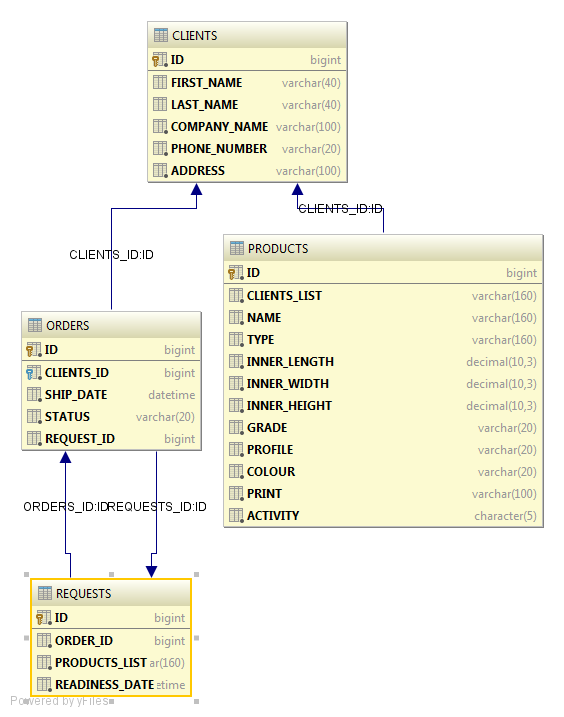
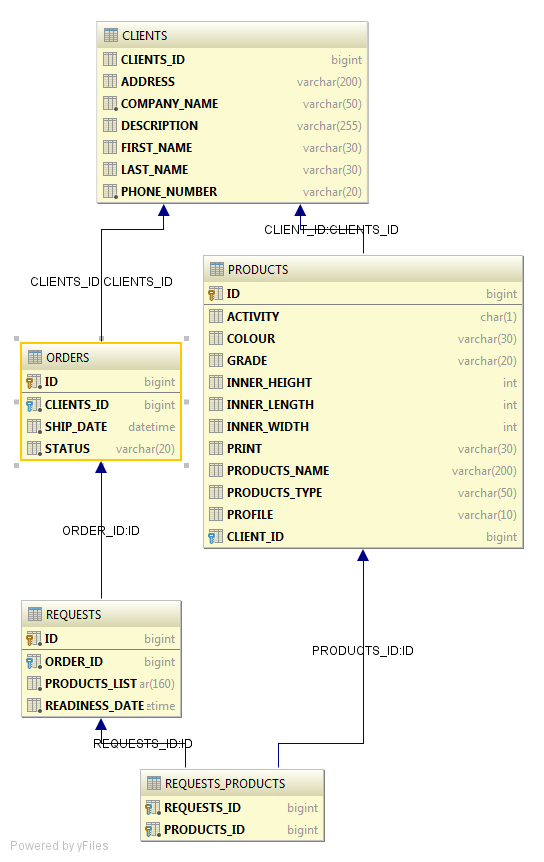
#1104 was done and Product, Client and Order entities were repaired

diff --git a/src/main/java/ua/skillsup/gelius/dao/impl/ProductFilterImpl.java b/src/main/java/ua/skillsup/gelius/dao/impl/ProductFilterImpl.java
@@ -1,0 +1,141 @@
+package ua.skillsup.gelius.dao.impl;
+
+import org.hibernate.SessionFactory;
+import org.springframework.beans.factory.annotation.Autowired;
+import org.springframework.stereotype.Repository;
+import org.springframework.transaction.annotation.Transactional;
+import ua.skillsup.gelius.dao.ProductFilter;
+import ua.skillsup.gelius.dto.ProductDto;
+import ua.skillsup.gelius.model.entities.Product;
+
+import java.util.ArrayList;
+import java.util.List;
+
+import static ua.skillsup.gelius.converters.EntityDtoConverter.convert;
+
+@Repository
+@Transactional
+public class ProductFilterImpl implements ProductFilter{
+    @Autowired
+    private SessionFactory sessionFactory;
+
+    @Override
+    public List<ProductDto> filterByClient(String client) {
+        List<Product> products = sessionFactory.getCurrentSession().createQuery("from Product").list();
+        List<ProductDto> result = new ArrayList<>();
+        for (Product product : products){
+            if (product.getClient().getCompanyName().equals(client)) {
+                result.add(convert(product));
+            }
+        }
+        return result;
+    }
+
+    @Override
+    public ProductDto filterByProductName(String name) {
+        List<Product> products = sessionFactory.getCurrentSession().createQuery("from Product").list();
+        ProductDto result = null;
+        for (Product product : products){
+            if (product.getProductsName().equals(name)) {
+                result = convert(product);
+            }
+        }
+        return result;
+    }
+
+    @Override
+    public List<ProductDto> filterByProductType(String type) {
+        List<Product> products = sessionFactory.getCurrentSession().createQuery("from Product").list();
+        List<ProductDto> result = new ArrayList<>();
+        for (Product product : products){
+            if (product.getProductsType().equals(type)) {
+                result.add(convert(product));
+            }
+        }
+        return result;
+    }
+
+    @Override
+    public List<ProductDto> filterByInnerLength(int length) {
+        List<Product> products = sessionFactory.getCurrentSession().createQuery("from Product").list();
+        List<ProductDto> result = new ArrayList<>();
+        for (Product product : products){
+            if (product.getInnerLength().equals(length)) {
+                result.add(convert(product));
+            }
+        }
+        return result;
+    }
+
+    @Override
+    public List<ProductDto> filterByInnerWidth(int width) {
+        List<Product> products = sessionFactory.getCurrentSession().createQuery("from Product").list();
+        List<ProductDto> result = new ArrayList<>();
+        for (Product product : products){
+            if (product.getInnerWidth().equals(width)) {
+                result.add(convert(product));
+            }
+        }
+        return result;
+    }
+
+    @Override
+    public List<ProductDto> filterByInnerHeight(int height) {
+        List<Product> products = sessionFactory.getCurrentSession().createQuery("from Product").list();
+        List<ProductDto> result = new ArrayList<>();
+        for (Product product : products){
+            if (product.getInnerHeight().equals(height)) {
+                result.add(convert(product));
+            }
+        }
+        return result;
+    }
+
+    @Override
+    public List<ProductDto> filterByGrade(String grade) {
+        List<Product> products = sessionFactory.getCurrentSession().createQuery("from Product").list();
+        List<ProductDto> result = new ArrayList<>();
+        for (Product product : products){
+            if (product.getGrade().equals(grade)) {
+                result.add(convert(product));
+            }
+        }
+        return result;
+    }
+
+    @Override
+    public List<ProductDto> filterByProfile(String profile) {
+        List<Product> products = sessionFactory.getCurrentSession().createQuery("from Product").list();
+        List<ProductDto> result = new ArrayList<>();
+        for (Product product : products){
+            if (product.getProfile().equals(profile)) {
+                result.add(convert(product));
+            }
+        }
+        return result;
+    }
+
+    @Override
+    public List<ProductDto> filterByColour(String colour) {
+        List<Product> products = sessionFactory.getCurrentSession().createQuery("from Product").list();
+        List<ProductDto> result = new ArrayList<>();
+        for (Product product : products){
+            if (product.getColour().equals(colour)) {
+                result.add(convert(product));
+            }
+        }
+        return result;
+    }
+
+    @Override
+    public List<ProductDto> filterByPrint(String print) {
+        List<Product> products = sessionFactory.getCurrentSession().createQuery("from Product").list();
+        List<ProductDto> result = new ArrayList<>();
+        for (Product product : products){
+            if (product.getPrint().equals(print)) {
+                result.add(convert(product));
+            }
+        }
+        return result;
+    }
+}

diff --git a/src/main/java/ua/skillsup/gelius/dao/ProductFilter.java b/src/main/java/ua/skillsup/gelius/dao/ProductFilter.java
@@ -1,0 +1,18 @@
+package ua.skillsup.gelius.dao;
+
+import ua.skillsup.gelius.dto.ProductDto;
+
+import java.util.List;
+
+public interface ProductFilter {
+    List<ProductDto> filterByClient(String client);
+    ProductDto filterByProductName(String name);
+    List<ProductDto> filterByProductType(String type);
+    List<ProductDto> filterByInnerLength(int length);
+    List<ProductDto> filterByInnerWidth(int width);
+    List<ProductDto> filterByInnerHeight(int height);
+    List<ProductDto> filterByGrade(String grade);
+    List<ProductDto> filterByProfile(String profile);
+    List<ProductDto> filterByColour(String colour);
+    List<ProductDto> filterByPrint(String print);
+}

diff --git a/src/main/java/ua/skillsup/gelius/model/entities/Client.java b/src/main/java/ua/skillsup/gelius/model/entities/Client.java
@@ -9,7 +9,7 @@ import java.util.Objects;
 @Table(name = "CLIENTS")
 public class Client {
     @Id
-    @Column(name = "ID")
+    @Column(name = "CLIENT_ID")
     @GeneratedValue(strategy = GenerationType.AUTO)
     private Long id;
 

diff --git a/src/main/java/ua/skillsup/gelius/model/entities/Order.java b/src/main/java/ua/skillsup/gelius/model/entities/Order.java
@@ -13,6 +13,8 @@ public class Order {
     private Long id;
 
     @Column(name = "CLIENT_ID")
+    @OneToOne
+    @JoinColumn(name = "CLIENT_ID")
     private Client client;
 
     @Column(name = "SHIP_DATE")

diff --git a/src/main/java/ua/skillsup/gelius/model/entities/Product.java b/src/main/java/ua/skillsup/gelius/model/entities/Product.java
@@ -15,6 +15,7 @@ public class Product {
 
     @ManyToOne
     @JoinColumn(name = "CLIENT_ID")
+    @Column(name = "CLIENT_ID")
     private Client client;
 
     @Size(max = 200)
